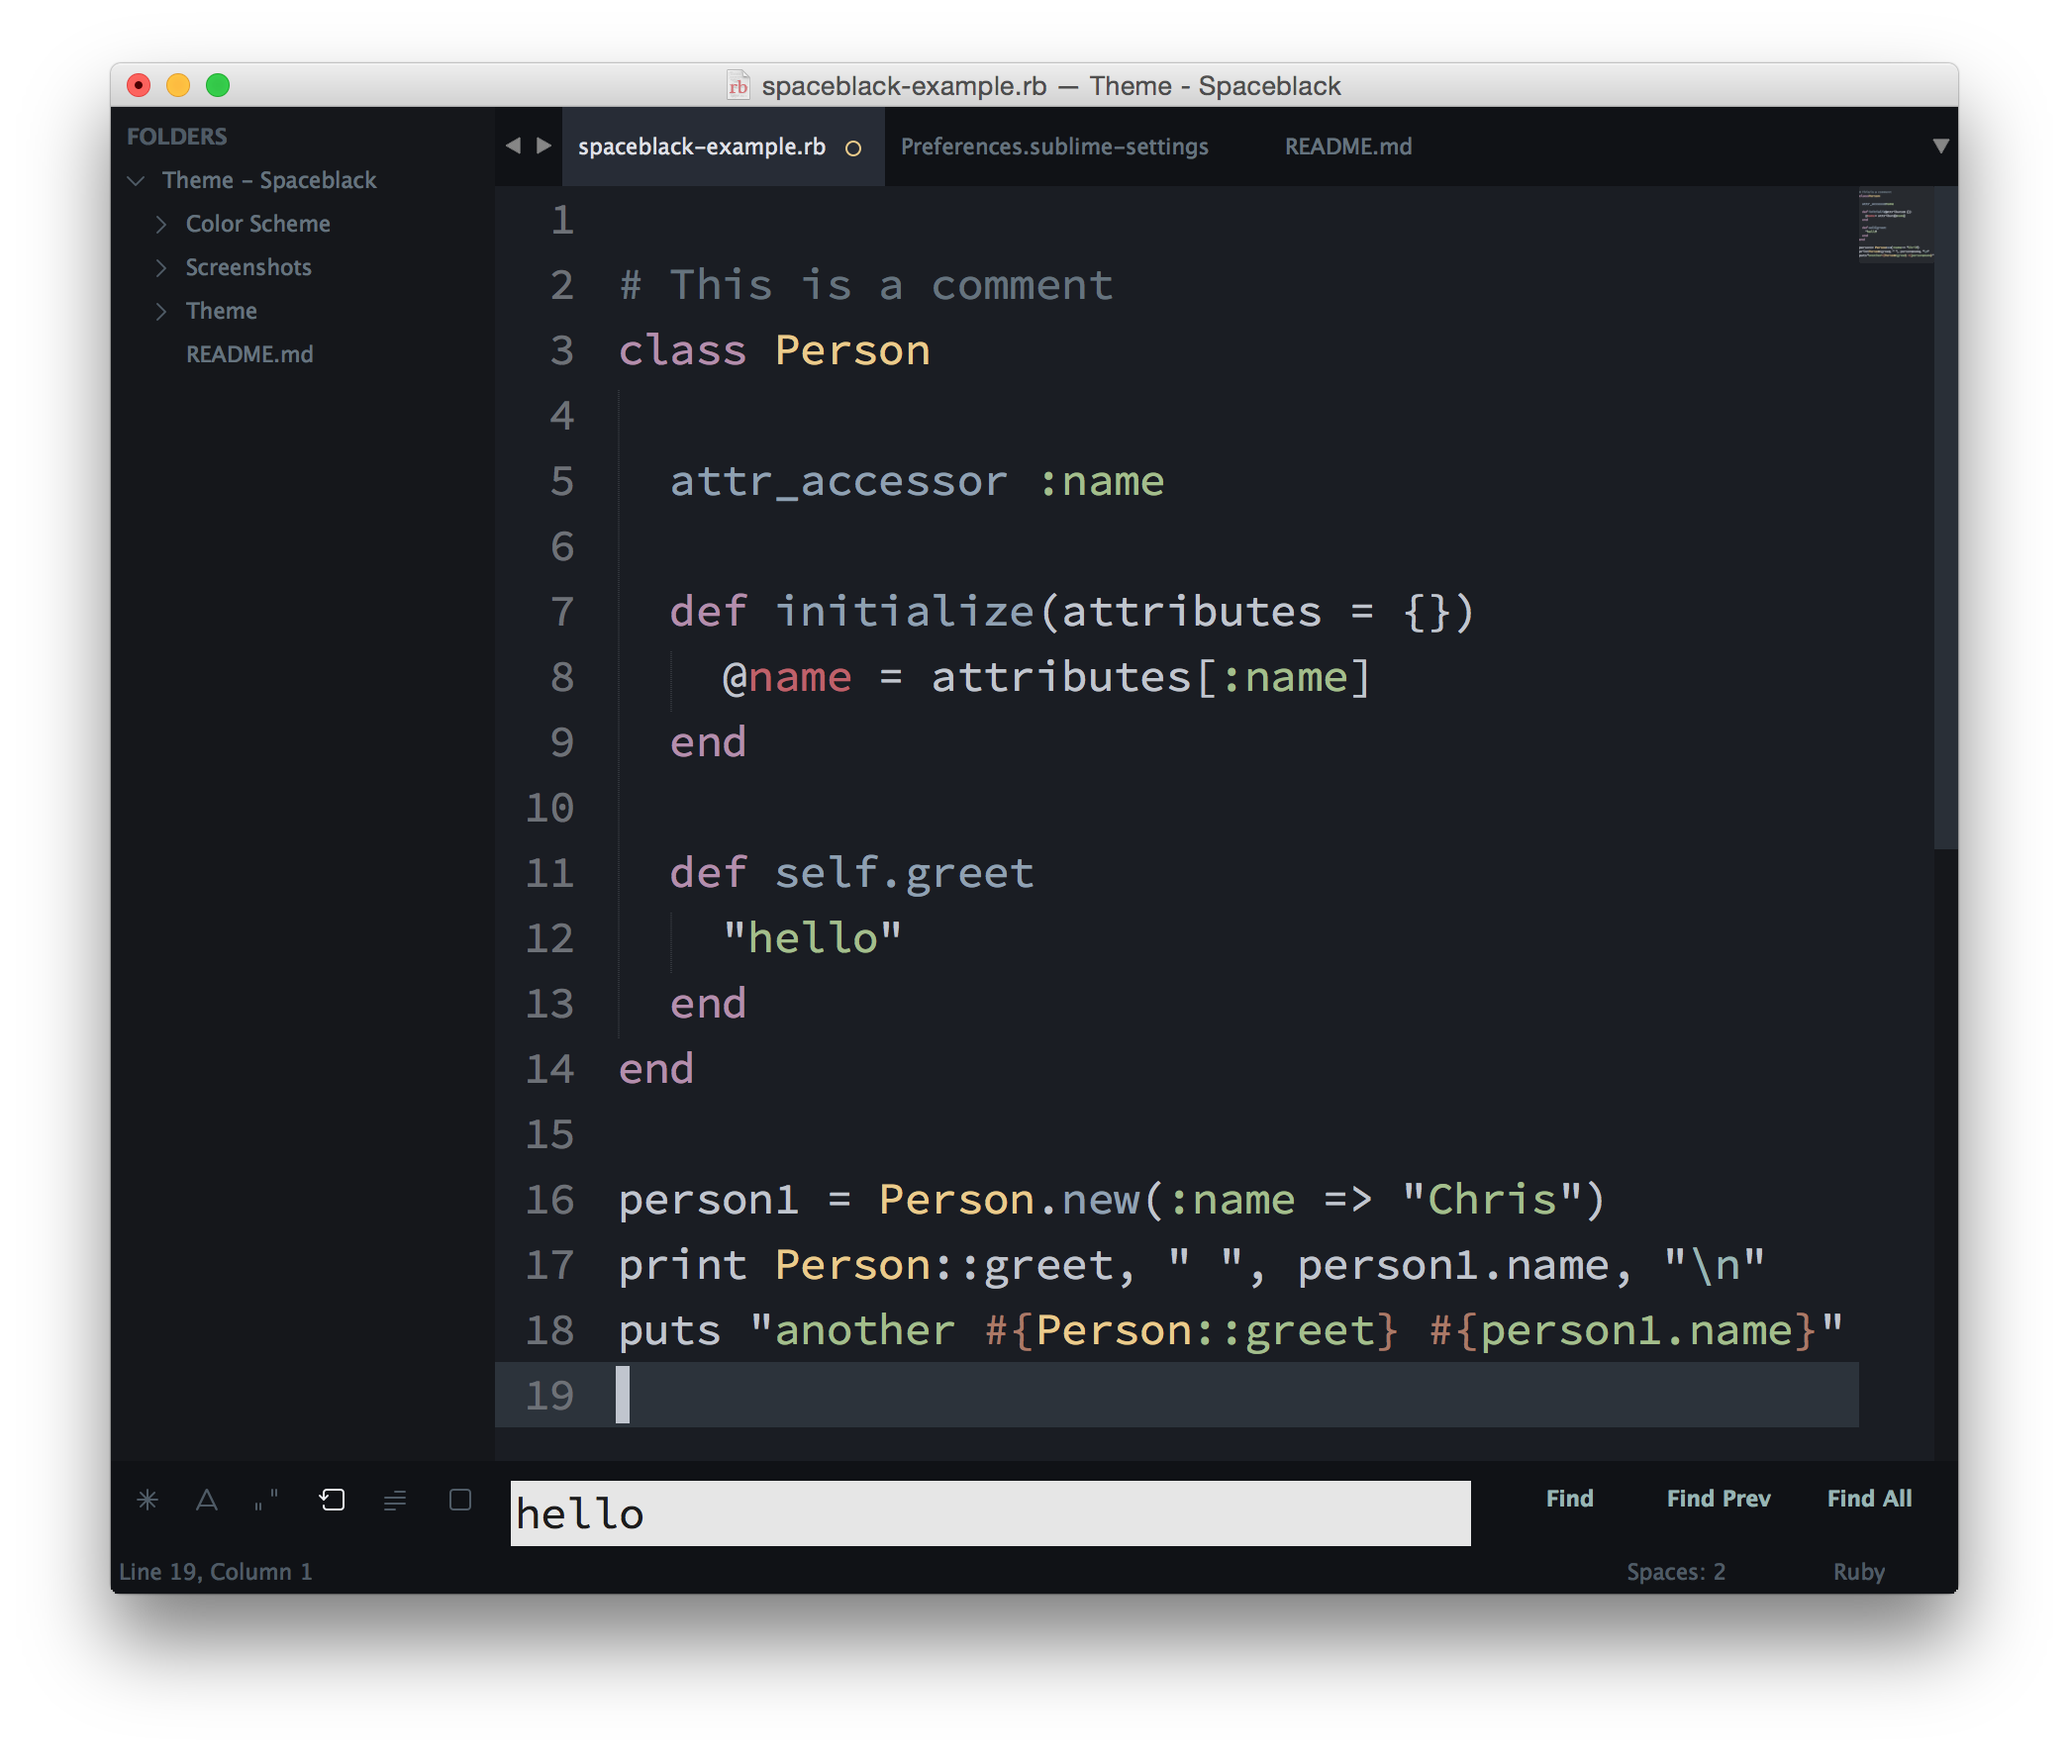
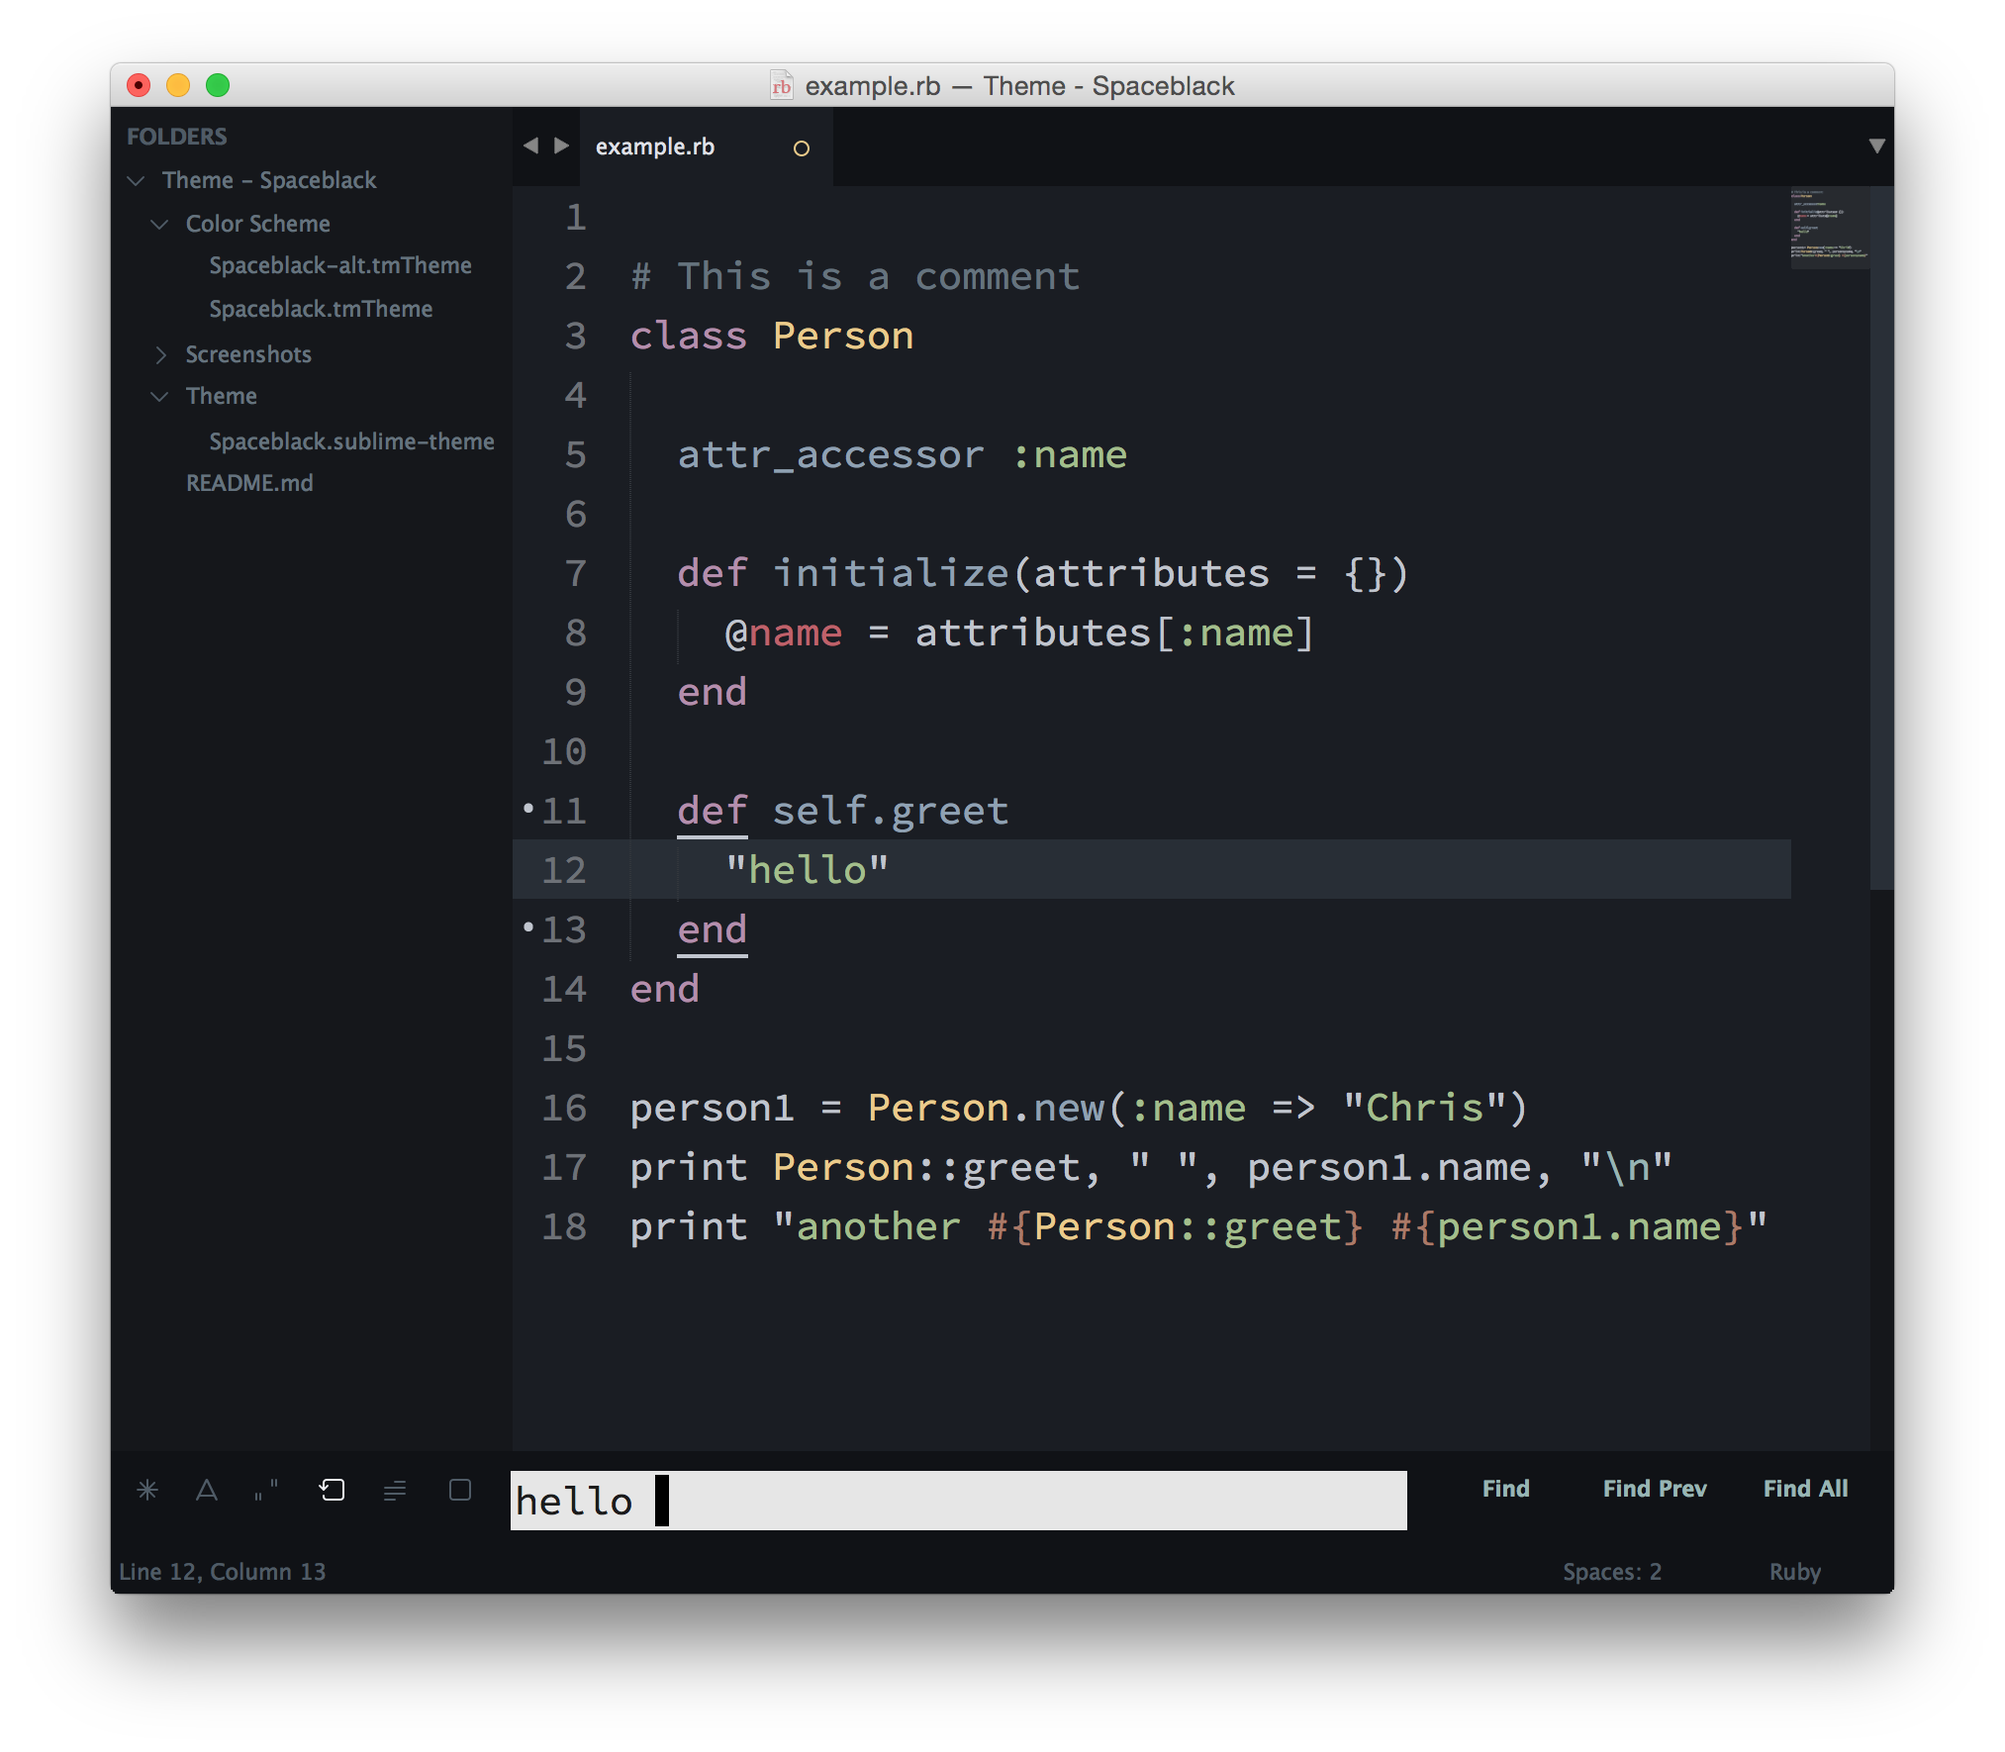
Update screenshots and README.md

diff --git a/README.md b/README.md
@@ -48,11 +48,20 @@ You can activate the theme and color scheme by modifying your Preferences-User f
 }
 ```
 
+#### Settings for Spaceblack with the alternate color scheme
+
+```json
+{
+  "theme": "Spaceblack.sublime-theme",
+  "color_scheme": "Packages/Theme - Spaceblack/Spaceblack-alt.tmTheme"
+}
+```
+
 ***
 
 ### Contributors
 
-* [TheBaronHimself](http://www.github.com/TheBaronHimself) ([Twitter](http://www.twitter.com/TheBaronHimself)) 
+* Simon-Claudius Wystrach ([Github](http://www.github.com/TheBaronHimself) | [Twitter](http://www.twitter.com/TheBaronHimself)) 
   * Created the Spacegray-alt.tmTheme
   * Added improvements to Spaceblack.sublime-theme
 
